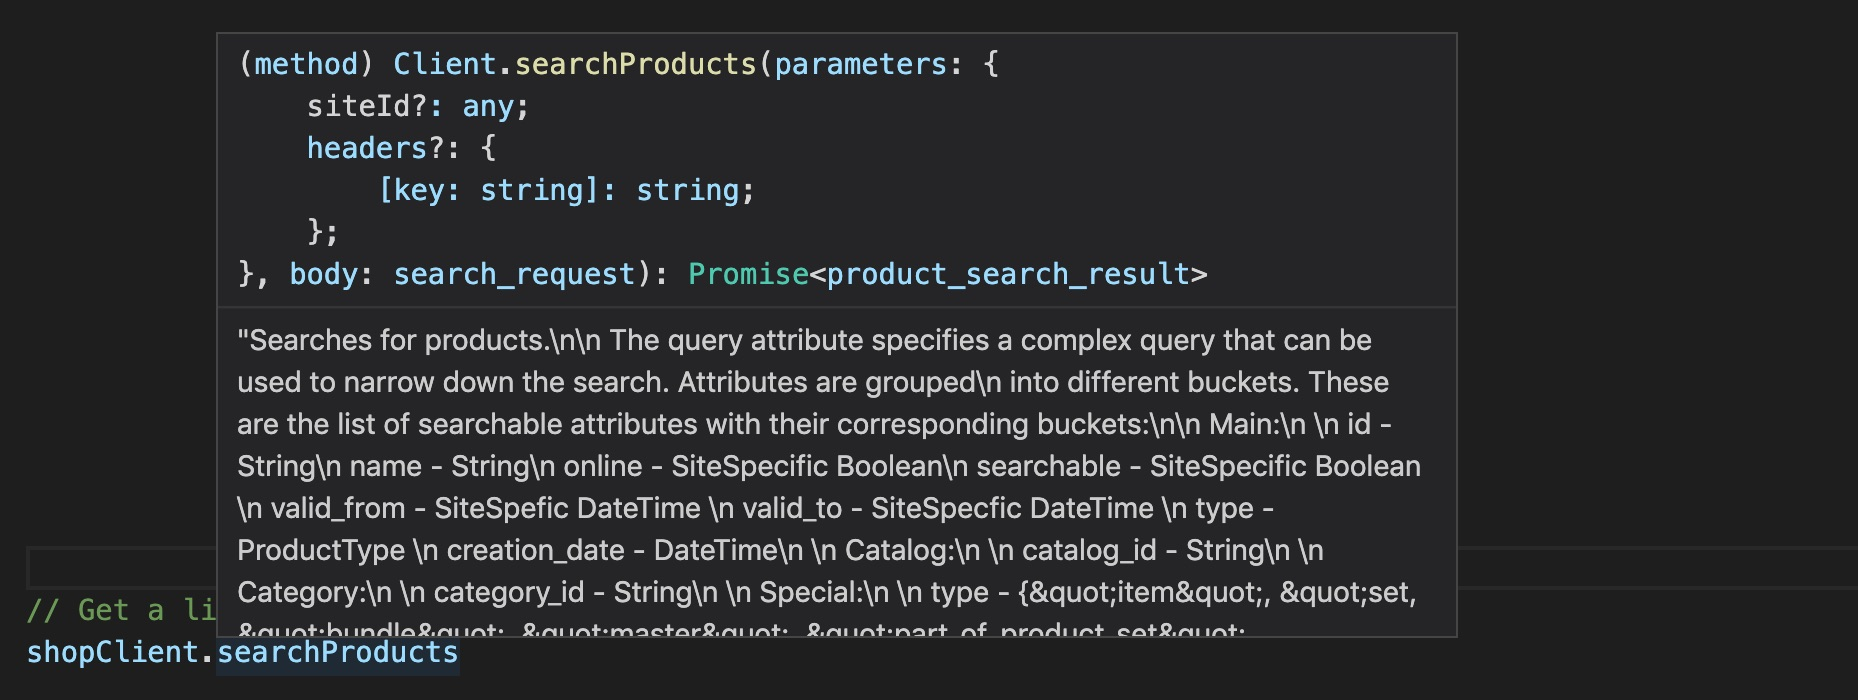
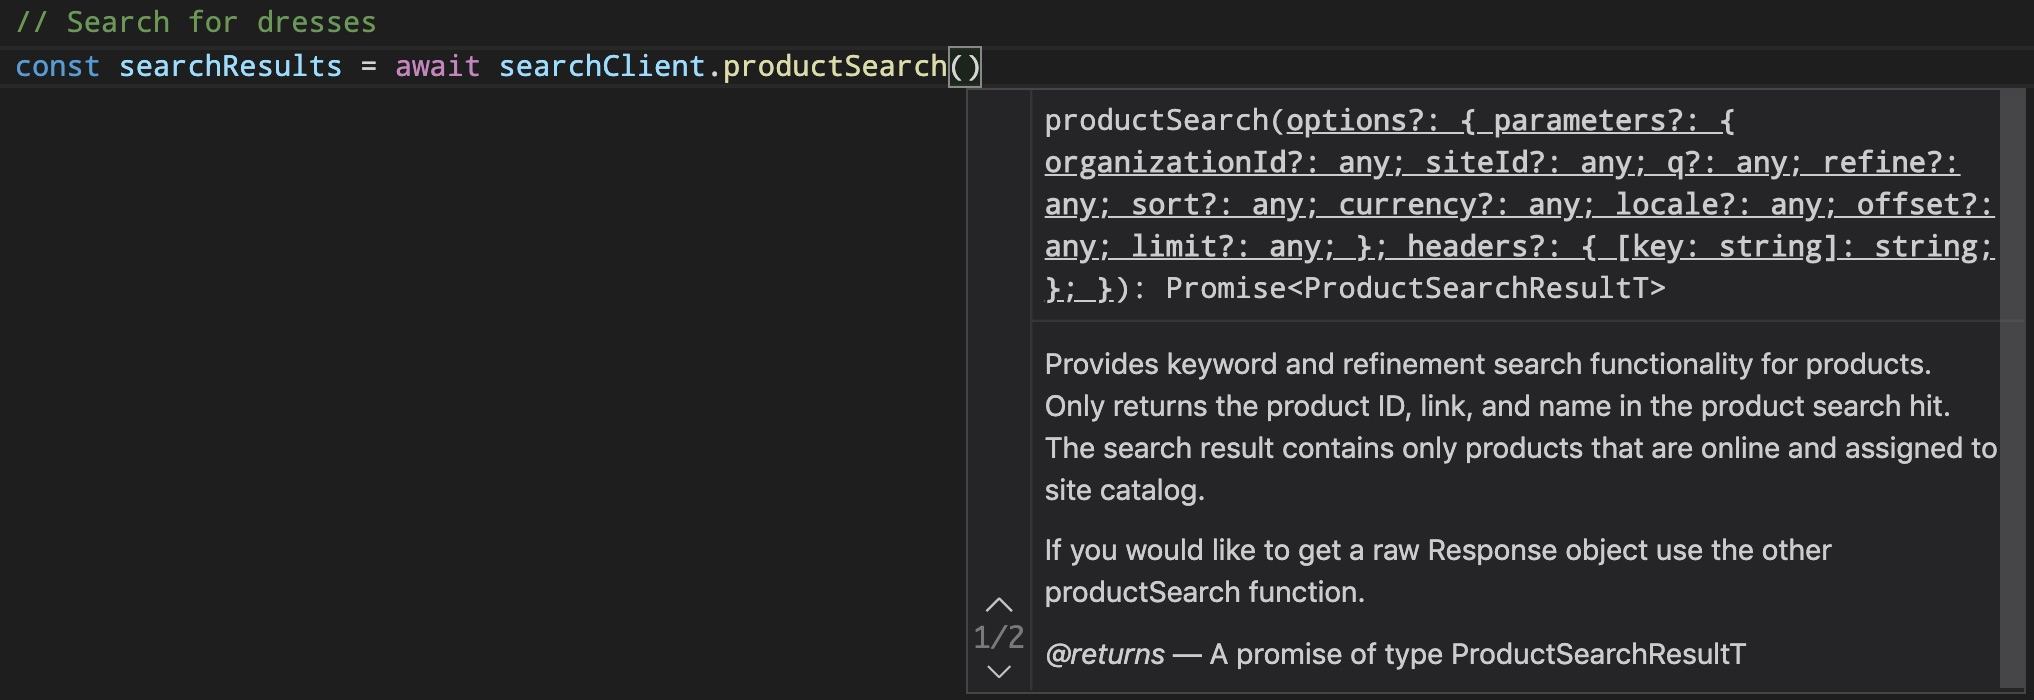
Fix screenshots

Changed region(s): [[0.0, 0.12, 0.9989, 1.0], [0.0, 0.0, 0.5307, 0.3]]

diff --git a/packages/generator/README.md b/packages/generator/README.md
@@ -94,6 +94,11 @@ To view the details of a method or a variable, hover over methods and variables.
 
 ![Method Details](./images/MethodDetails.jpg?raw=true "Method Details")
 
+![Parameter Details](./images/ParameterDetails.jpg?raw=true "Parameter Details")
+
+Autocomplete will also show the available properties of the data returned by SDK methods.
+
+![Result Autocomplete](./images/ResultAutocomplete.jpg?raw=true "Result Autocomplete")
 
 ## Additional Documentation 
 [API Versions Used](./VERSION.md)
